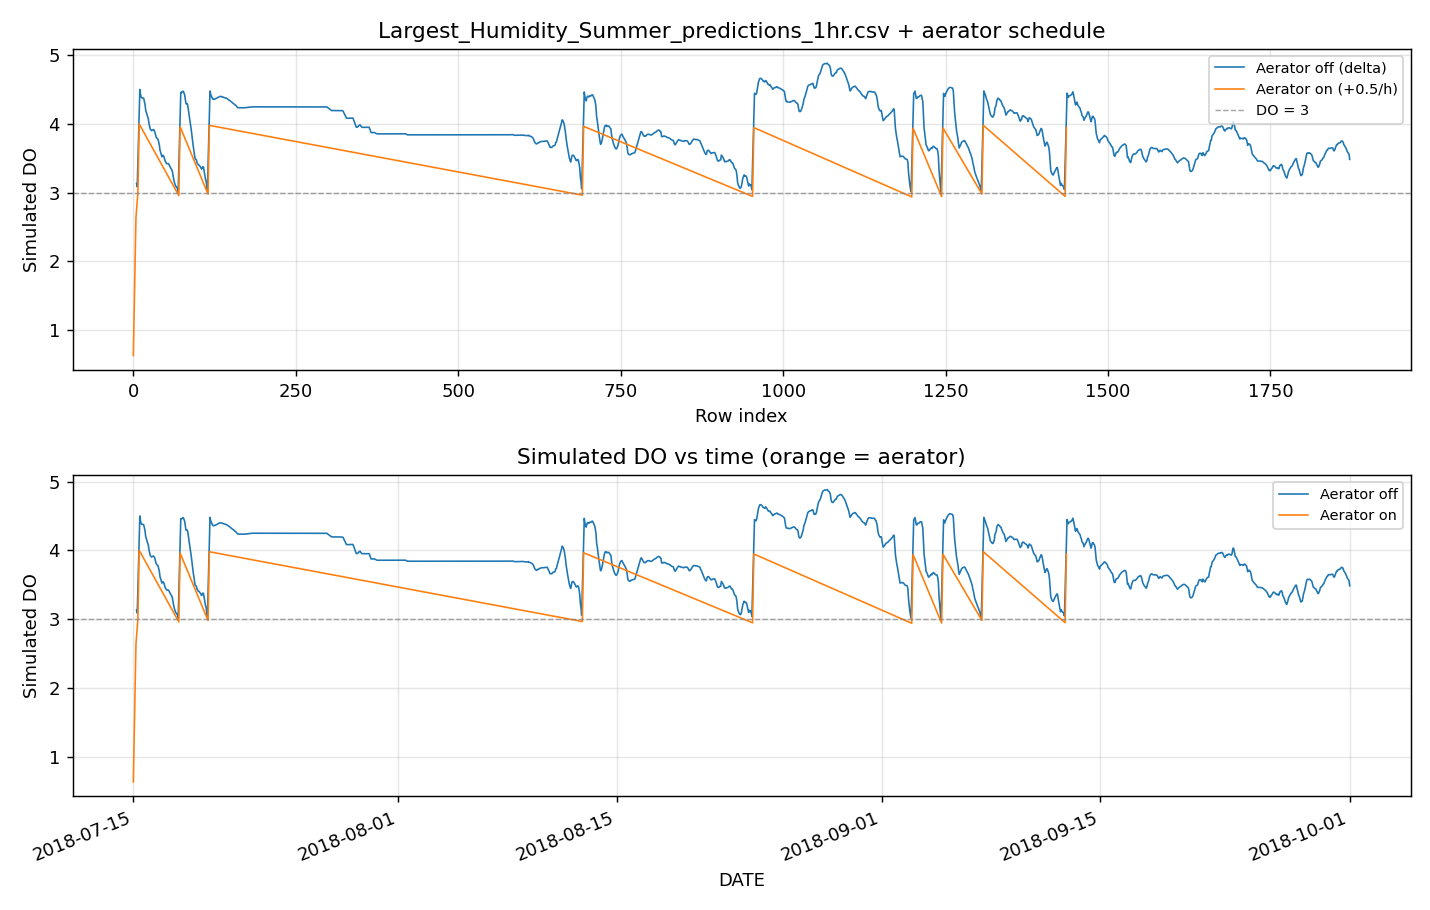
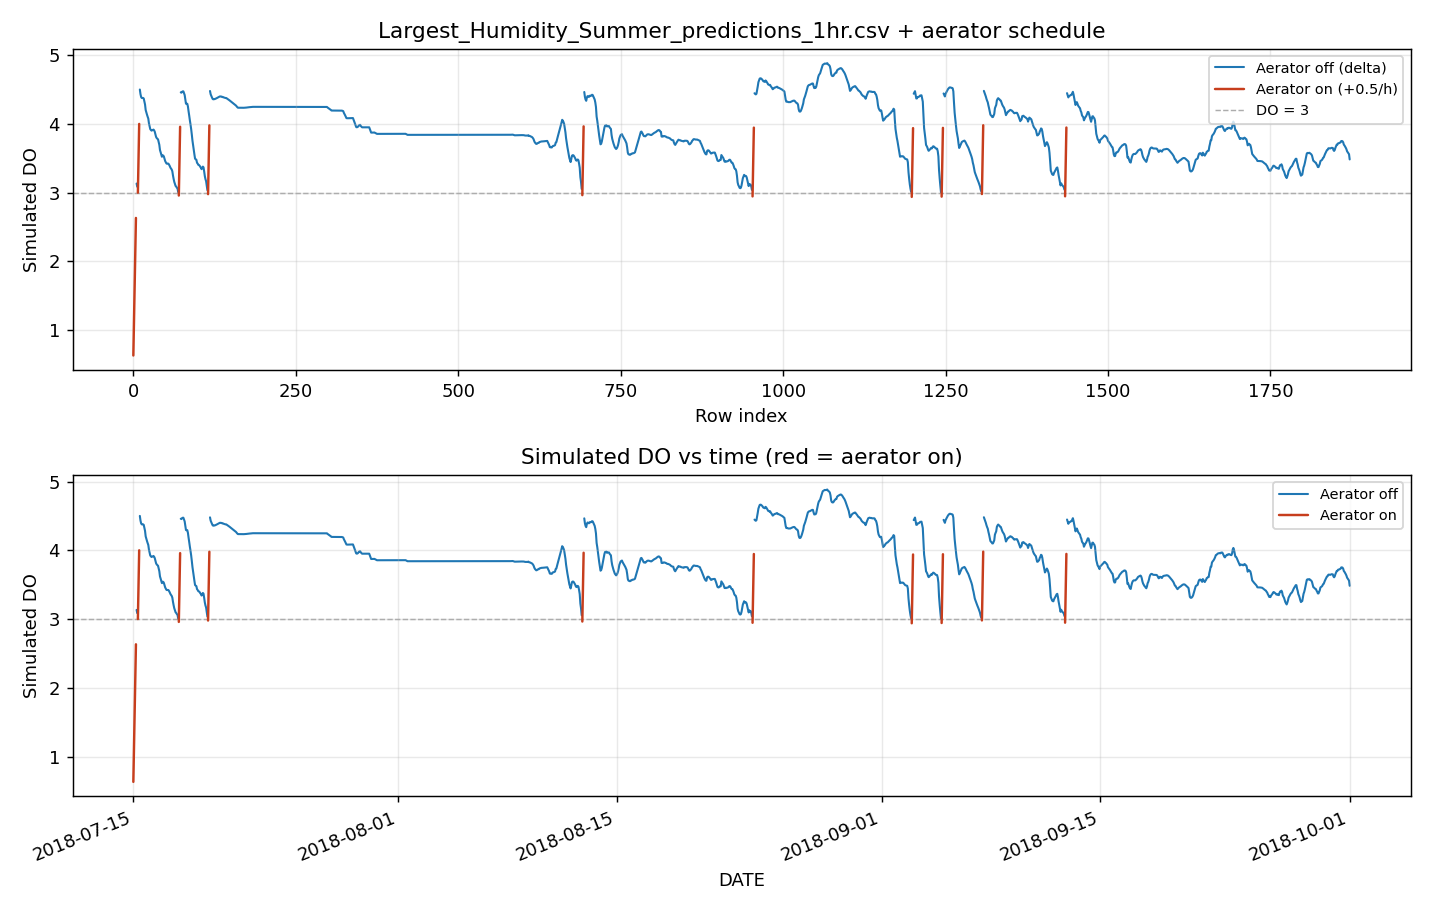
aaa

diff --git a/PURE WEATHER/aerator_schedule_simulation.py b/PURE WEATHER/aerator_schedule_simulation.py
@@ -102,38 +102,107 @@ def simulate(
     return out
 
 
+def _contiguous_true_runs(mask: np.ndarray) -> list[tuple[int, int]]:
+    """Half-open [start, end) index ranges where mask is True consecutively."""
+    mask = np.asarray(mask, dtype=bool)
+    runs: list[tuple[int, int]] = []
+    i, n = 0, len(mask)
+    while i < n:
+        if not mask[i]:
+            i += 1
+            continue
+        j = i + 1
+        while j < n and mask[j]:
+            j += 1
+        runs.append((i, j))
+        i = j
+    return runs
+
+
+def _plot_segments(
+    ax,
+    x: np.ndarray,
+    y: np.ndarray,
+    mask: np.ndarray,
+    *,
+    color: str,
+    label: str,
+    linewidth: float = 1.15,
+    zorder: int = 2,
+) -> None:
+    """Plot only within contiguous True runs so lines do not bridge gaps."""
+    for k, (s, e) in enumerate(_contiguous_true_runs(mask)):
+        lbl = label if k == 0 else None
+        ax.plot(
+            x[s:e],
+            y[s:e],
+            color=color,
+            linewidth=linewidth,
+            label=lbl,
+            zorder=zorder,
+            solid_capstyle="round",
+            solid_joinstyle="round",
+        )
+
+
 def plot_result(df: pd.DataFrame, title: str, out_png: str) -> None:
     dt = pd.to_datetime(df["DATE"], errors="coerce")
     y = pd.to_numeric(df["simulated_DO"], errors="coerce").to_numpy()
     aer = df["aerator_on"].astype(bool).to_numpy()
-    idx = np.arange(len(df))
+    idx = np.arange(len(df), dtype=float)
+
+    # Aerator: deep coral (not yellow/orange tab); reads clearly vs blue
+    color_aer = "#C73E1D"
+    color_off = "#1f77b4"
 
     fig, axes = plt.subplots(2, 1, figsize=(11, 7))
 
-    # Top: index, color by aerator
     ax = axes[0]
-    if np.any(~aer):
-        ax.plot(idx[~aer], y[~aer], color="tab:blue", linewidth=0.9, label="Aerator off (delta)")
-    if np.any(aer):
-        ax.plot(idx[aer], y[aer], color="tab:orange", linewidth=0.9, label="Aerator on (+0.5/h)")
-    ax.axhline(3.0, color="gray", linestyle="--", linewidth=0.8, alpha=0.7, label="DO = 3")
+    _plot_segments(
+        ax,
+        idx,
+        y,
+        ~aer,
+        color=color_off,
+        label="Aerator off (delta)",
+        zorder=1,
+    )
+    _plot_segments(
+        ax,
+        idx,
+        y,
+        aer,
+        color=color_aer,
+        label="Aerator on (+0.5/h)",
+        linewidth=1.35,
+        zorder=3,
+    )
+    ax.axhline(3.0, color="gray", linestyle="--", linewidth=0.8, alpha=0.65, label="DO = 3", zorder=0)
     ax.set_xlabel("Row index")
     ax.set_ylabel("Simulated DO")
     ax.set_title(title)
     ax.legend(loc="upper right", fontsize=8)
-    ax.grid(True, alpha=0.3)
+    ax.grid(True, alpha=0.28)
 
     ax = axes[1]
-    if np.any(~aer):
-        ax.plot(dt[~aer], y[~aer], color="tab:blue", linewidth=0.9, label="Aerator off")
-    if np.any(aer):
-        ax.plot(dt[aer], y[aer], color="tab:orange", linewidth=0.9, label="Aerator on")
-    ax.axhline(3.0, color="gray", linestyle="--", linewidth=0.8, alpha=0.7)
+    xdt = dt.to_numpy()
+    _plot_segments(ax, xdt, y, ~aer, color=color_off, label="Aerator off", zorder=1)
+    _plot_segments(
+        ax,
+        xdt,
+        y,
+        aer,
+        color=color_aer,
+        label="Aerator on",
+        linewidth=1.35,
+        zorder=3,
+    )
+    ax.axhline(3.0, color="gray", linestyle="--", linewidth=0.8, alpha=0.65, zorder=0)
     ax.set_xlabel("DATE")
     ax.set_ylabel("Simulated DO")
-    ax.set_title("Simulated DO vs time (orange = aerator)")
+    ax.set_title("Simulated DO vs time (red = aerator on)")
     ax.legend(loc="upper right", fontsize=8)
-    ax.grid(True, alpha=0.3)
+    ax.grid(True, alpha=0.28)
     plt.setp(ax.xaxis.get_majorticklabels(), rotation=22, ha="right")
 
     fig.tight_layout()
